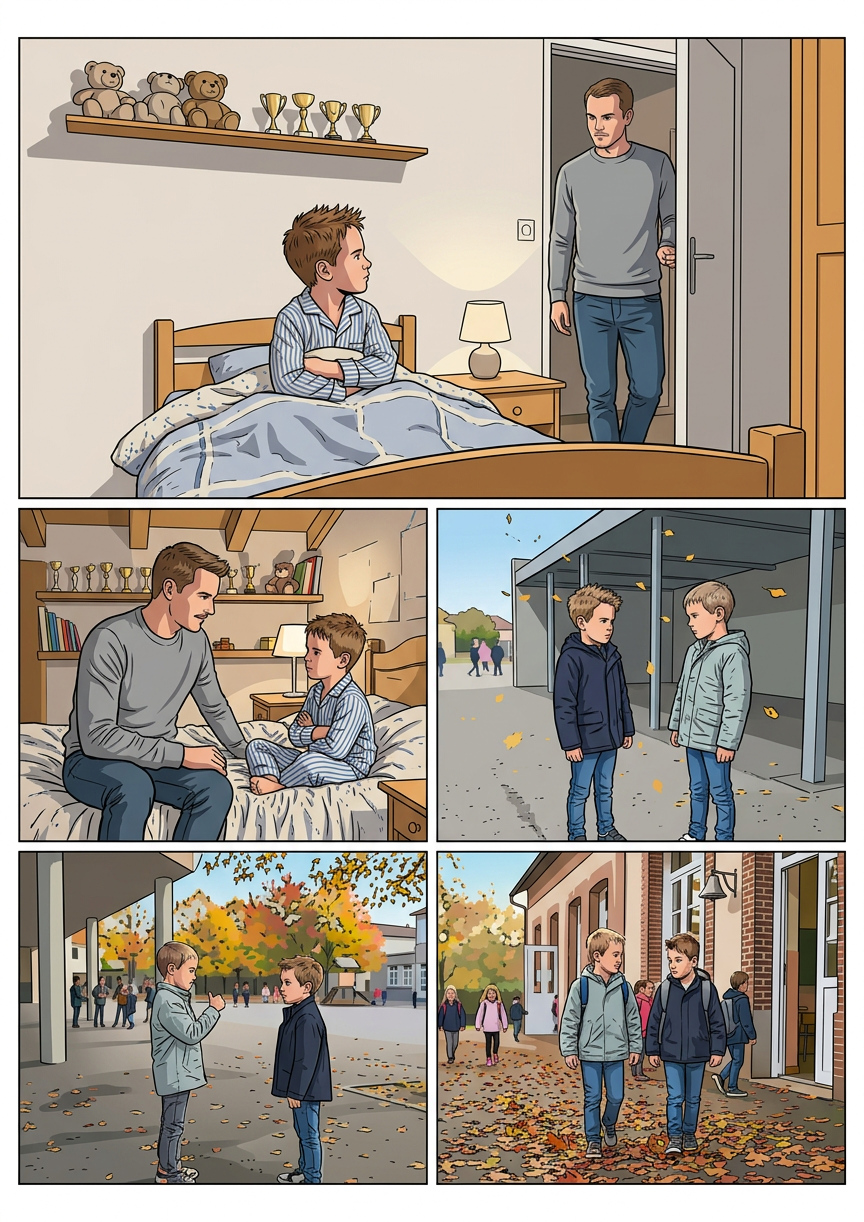
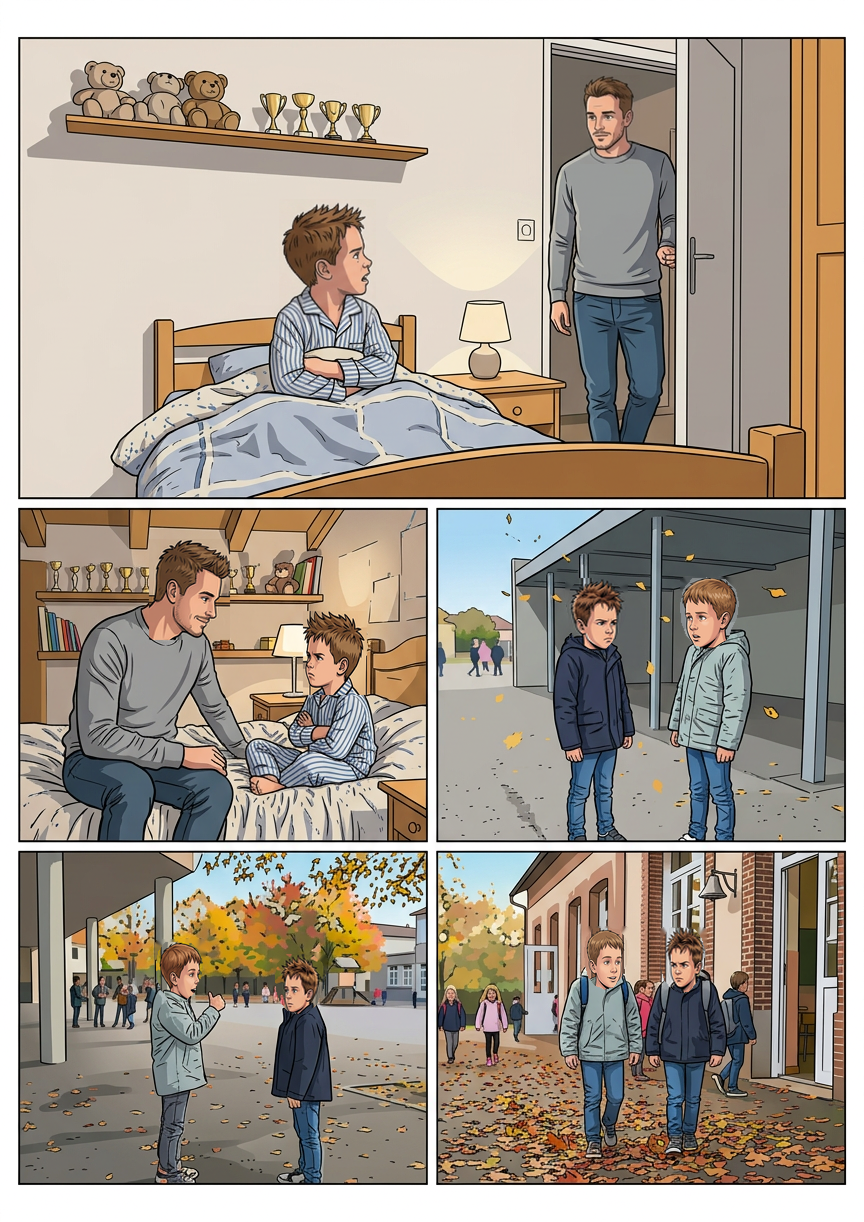
Reprendre les cinq vignettes civiles de la planche 10 depuis la couverture

diff --git a/Planches-dessin/validation/REVUE-COUVERTURE.md b/Planches-dessin/validation/REVUE-COUVERTURE.md
@@ -21,12 +21,12 @@ Les huit recadrages exacts sont dans `revue-couverture/<Prénom>-couverture.png`
 |---|---:|
 | Planches vues en ensemble | 30 |
 | Vignettes réellement inventoriées | 153 |
-| Premières reprises intégrées, encore à relire | 48 |
+| Premières reprises intégrées, encore à relire | 53 |
 | Corrections seulement partielles, à poursuivre | 1 |
-| Autres vignettes restant à contrôler individuellement | 104 |
+| Autres vignettes restant à contrôler individuellement | 99 |
 | Validations définitives de style et ressemblance | **0** |
 
-Les 49 vignettes ayant reçu une intervention ne sont pas 49 vignettes définitivement conformes. Le reste de la revue demandée n’est pas terminé. Le manifeste `REVUE-COUVERTURE.json` conserve une entrée et un état explicite pour chacune des 153 vignettes.
+Les 54 vignettes ayant reçu une intervention ne sont pas 54 vignettes définitivement conformes. Le reste de la revue demandée n’est pas terminé. Le manifeste `REVUE-COUVERTURE.json` conserve une entrée et un état explicite pour chacune des 153 vignettes.
 
 ## Première livraison : 26/3 et 26/6
 
@@ -166,6 +166,24 @@ Comparatif : `revue-couverture/lot-j/09-AVANT-APRES.jpg`. Masques entiers pour 0
 
 **À relire transversalement :** tenue de Léon au geste d’essuyage (manche blanche longue héritée de la scène, différente du maillot court de couverture), continuité de carnation/coiffure de Nolann, traitement encore variable des corps et décors et petits marquages. La haie utilise un réarrangement plutôt qu’un simple changement de couleur de l’acteur surnuméraire ; vérifier à nouveau les gestes sportifs lors de la relecture globale. Le visage de Léon ne doit pas être déclaré définitivement conforme sur la seule présence des pics. Aucun ajout de texte ou de bulle à cette étape.
 
+## Onzième livraison : les cinq vignettes de la planche 10
+
+Cinq scènes confrontées au scénario, aux sources réalistes et aux portraits nominatifs de la couverture. Cinq premières reprises ; aucune validation définitive.
+
+**10/1 :** Portraits de Léon en pyjama et Flavien en pull civil rapprochés des modèles : pics châtains, cheveux bruns et légère pilosité du père. Regard contrarié de l'enfant et attitude calme du père conservés. Corps, bras croisés, vêtements, porte, lit, trois peluches et quatre coupes hors masques préservés.
+
+**10/2 :** Têtes de Flavien et Léon reprises : cheveux bruns relevés avec légère moustache/barbe, sourire patient ; pics châtains et air têtu de Léon. Candidat complet recadré et modifiant les corps non importé : portraits recalés séparément. Pyjama rayé, pull civil, mains et positions d'origine préservés hors masques.
+
+**10/3 :** Léon à gauche en manteau marine et Ayden à droite en manteau gris-vert identifiés ; pics de Léon et visage contrarié, Ayden avec coupe courte châtain clair vers l'avant et expression interrogative. Chevelure trop blonde du premier essai remplacée par un portrait local spécifique. Décor et élèves de fond d'origine hors masques conservés, pas le nouveau cadrage du candidat.
+
+**10/4 :** Ayden à gauche parlant, Léon à droite surpris : reprise des deux têtes avec coupes distinctives. Longue frange de côté du premier Ayden rejetée et remplacée par une reprise courte châtain clair. Pouce levé, manteaux, cour et élèves secondaires d'origine conservés hors masques. La direction du pouce vers l'autre bout de la cour reste peu explicite.
+
+**10/5 :** Ayden à gauche et Léon à droite repris pendant leur marche : coupe courte châtain clair et expression explicative, pics châtains et sourcils froncés. Portrait spécifique d'Ayden à la place des cheveux trop blonds du premier essai. Vêtements civils, sacs, corps, cloche, bâtiment et élèves secondaires hors masques conservés.
+
+Comparatif : `revue-couverture/lot-k/10-AVANT-APRES.jpg` ; cinq masques. Les portraits ont été recalés indépendamment des cadrages des candidats. Les masques comprennent les têtes, petits raccords de cou/col pour les scènes de chambre et l'effacement local des anciennes pointes de cheveux pour les scènes d'école. Le premier montage comportait des vestiges de coiffure et deux anciennes têtes encore visibles en 10/5 ; rejeté. Un effacement trop large floutant les cols a également été écarté : l'effacement retenu se limite au haut des anciennes têtes, les vêtements d'origine restent hors de ces zones.
+
+**Réserves de relecture :** continuité de mobilier/trophées entre 10/1 et 10/2 (quatre coupes visibles dans la première, davantage dans la seconde, écart déjà présent dans les sources), regard de Léon vers son père plutôt que les trophées en 10/1, direction peu explicite du pouce en 10/4, petits raccords de col, différence d'encrage des corps/décors et visages. Ne pas convertir la réussite technique en certification des ressemblances. Les vêtements civils/pyjama sont requis ici par le scénario : ils ne sont pas remplacés par la tenue de rugby de la couverture. Aucun texte ni bulle ajoutés.
+
 ## Contrôles techniques et audits historiques
 
 `outils/retouche/verifier_revue_couverture.py` compare les 31 PNG au début de la revue : couverture inchangée, dimensions, empreintes, absence de modification des fichiers non concernés et invariance des pixels hors masques. Il contrôle également la cohérence des états et du bilan. **Il ne mesure pas la ressemblance ou la qualité du dessin.**
@@ -174,7 +192,7 @@ Les vérificateurs des audits 13–22, comme ceux de 23–30, s’appliquent dé
 
 ## Suite obligatoire
 
-Contrôler individuellement les **104 autres vignettes**, terminer **14/2**, puis relire les premières reprises, notamment les six cases de la planche 4 et les réserves de scénario. Vérifier systématiquement chaque occurrence de Nolann et des sept autres personnages, ainsi que décors et encrage : la revue ne peut pas se limiter aux couleurs de peau/cheveux.
+Contrôler individuellement les **99 autres vignettes**, terminer **14/2**, puis relire les premières reprises, notamment les six cases de la planche 4 et les réserves de scénario. Vérifier systématiquement chaque occurrence de Nolann et des sept autres personnages, ainsi que décors et encrage : la revue ne peut pas se limiter aux couleurs de peau/cheveux.
 
 Procédure : identification au scénario → comparaison aux personnages de couverture → comparaison à la planche réaliste → correction locale → relecture en contexte de page. Les raccords cou/cheveux/mains et les tenues restent à contrôler. Aucun candidat simplement généré n’est automatiquement validé.
 

diff --git a/Planches-dessin/SUIVI-STYLE.md b/Planches-dessin/SUIVI-STYLE.md
@@ -2,7 +2,7 @@
 
 **La couverture `00-couverture-marvel.png` est désormais la seule référence de style et d’identité.** La décision utilisateur remplace la priorité V2 décrite dans l’historique ci-dessous. La couverture reste inchangée.
 
-Suivi actuel : [`validation/REVUE-COUVERTURE.md`](validation/REVUE-COUVERTURE.md) et son manifeste JSON : 153 vignettes inventoriées, 48 premières reprises, 1 correction partielle, 104 autres contrôles individuels à faire, aucune validation définitive. Les anciennes approbations ne valent pas conformité au nouveau référentiel.
+Suivi actuel : [`validation/REVUE-COUVERTURE.md`](validation/REVUE-COUVERTURE.md) et son manifeste JSON : 153 vignettes inventoriées, 53 premières reprises, 1 correction partielle, 99 autres contrôles individuels à faire, aucune validation définitive. Les anciennes approbations ne valent pas conformité au nouveau référentiel.
 
 ---
 
